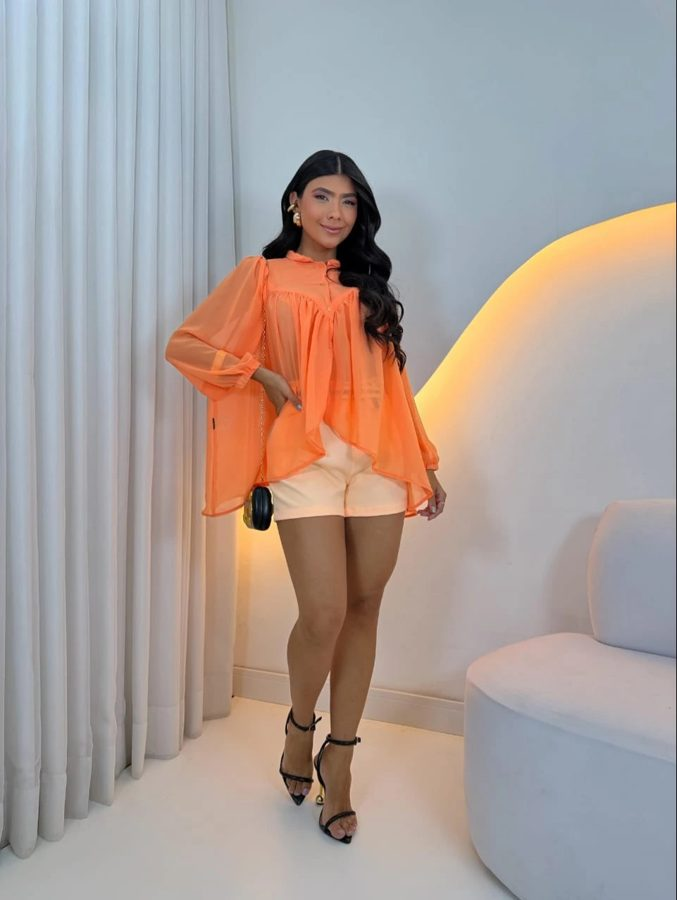
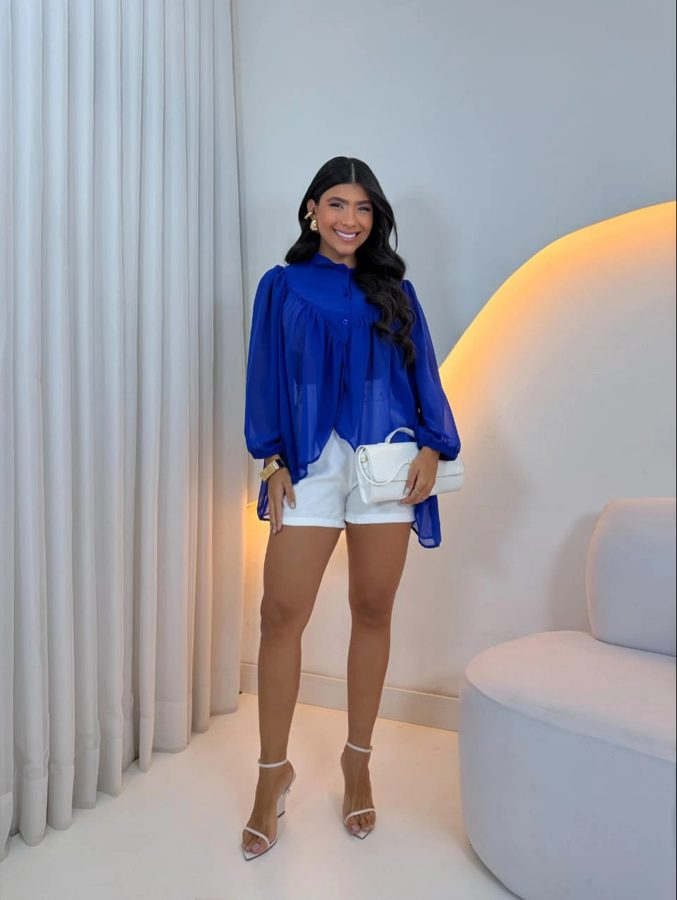
Atualiza catálogo (27/11 07:52)

diff --git a/index.html b/index.html
@@ -172,7 +172,7 @@ header .dica { color: var(--ouro); }
 <section class="promos" aria-label="Promoções"><h2>Descontos exclusivos para compras pelo site</h2><div class="promo"><b>Leve mais, pague menos</b><div class="degraus"><div><strong>-5%</strong><small>2 peças</small></div><div><strong>-8%</strong><small>3 peças</small></div><div><strong>-10%</strong><small>4 peças</small></div><div><strong>-12%</strong><small>5 peças</small></div><div><strong class="txt">ATACADO</strong><small>6+ peças</small></div></div><span>Automático no carrinho · pode misturar modelos, cores e tamanhos</span></div><div class="promo"><b>Pagando no Pix</b><span class="grande">3% <small>OFF</small></span><span>Em todo o site, no checkout · não soma com outros descontos</span></div><div class="promo"><b>Cupom de desconto</b><div class="ticket"><strong>3% OFF na 1ª compra</strong><div class="codigo"><code>PRIMEIRACOMPRA01</code><button type="button" data-copiar="PRIMEIRACOMPRA01">Copiar</button></div><span>Compras a partir de R$ 59,90 · digite no checkout</span></div></div><p class="aviso">Cupom, desconto progressivo e desconto no Pix valem só para compras feitas pelo site michellyscriacoes.com.br</p></section>
 <div class="filtros"><button type="button" data-filtro="todas" aria-pressed="true">Todas as peças</button><button type="button" data-filtro="promo" aria-pressed="false">Em promoção (17)</button></div>
 <main class="grade">
-<a href="https://michellyscriacoes.com.br/camisa-social-feminina-manga-longa-com-abotoamento-elegante?utm_source=catalogo&amp;utm_medium=whatsapp&amp;utm_campaign=catalogo_digital&amp;utm_content=link" target="_blank" rel="noopener"><div class="foto"><img src="fotos/camisa-social-feminina-manga-longa-com-abotoamento-elegante.jpg" alt="Camisa Social Feminina Manga Longa com Abotoamento Elegante" loading="lazy"></div><div class="info"><span class="nome">Camisa Social Feminina Manga Longa com Abotoamento Elegante</span><span class="preco"><small>Varejo</small> R$ 89,90</span><span class="atacado"><small>Atacado</small> R$ 64,90</span><span class="det">Tam: M · G</span><span class="cores"><i title="Branco" aria-label="Branco" style="background:#ffffff"></i><i title="Preto" aria-label="Preto" style="background:#1d1d1d"></i><i title="Rosa" aria-label="Rosa" style="background:#f19bb4"></i><i title="Vermelho" aria-label="Vermelho" style="background:#d12b2b"></i></span><span class="extras"><small>Só comprando pelo site:</small><br>No Pix: <b>R$ 87,20</b><br>Leve 2: <b>R$ 85,41</b> cada · Leve 3: <b>R$ 82,71</b> cada · Leve 4: <b>R$ 80,91</b> cada · Leve 5: <b>R$ 79,11</b> cada</span></div><button class="mais" type="button" aria-label="Ver detalhes">+</button></a>
+<a href="https://michellyscriacoes.com.br/camisa-social-feminina-manga-longa-com-abotoamento-elegante?utm_source=catalogo&amp;utm_medium=whatsapp&amp;utm_campaign=catalogo_digital&amp;utm_content=link" target="_blank" rel="noopener"><div class="foto"><img src="fotos/camisa-social-feminina-manga-longa-com-abotoamento-elegante.jpg" alt="Camisa Social Feminina Manga Longa com Abotoamento Elegante" loading="lazy"></div><div class="info"><span class="nome">Camisa Social Feminina Manga Longa com Abotoamento Elegante</span><span class="preco"><small>Varejo</small> R$ 89,90</span><span class="atacado"><small>Atacado</small> R$ 64,90</span><span class="det">Tam: M · G</span><span class="cores"><i title="Branco" aria-label="Branco" style="background:#ffffff"></i><i title="Preto" aria-label="Preto" style="background:#1d1d1d"></i><i title="Rosa" aria-label="Rosa" style="background:#f19bb4"></i><i title="Telha" aria-label="Telha" style="background:#b9563a"></i><i title="Vermelho" aria-label="Vermelho" style="background:#d12b2b"></i></span><span class="extras"><small>Só comprando pelo site:</small><br>No Pix: <b>R$ 87,20</b><br>Leve 2: <b>R$ 85,41</b> cada · Leve 3: <b>R$ 82,71</b> cada · Leve 4: <b>R$ 80,91</b> cada · Leve 5: <b>R$ 79,11</b> cada</span></div><button class="mais" type="button" aria-label="Ver detalhes">+</button></a>
 <a href="https://michellyscriacoes.com.br/blusa-com-lastek-na-gola-e-cintura-e-mangas?utm_source=catalogo&amp;utm_medium=whatsapp&amp;utm_campaign=catalogo_digital&amp;utm_content=link" target="_blank" rel="noopener"><div class="foto"><img src="fotos/blusa-com-lastek-na-gola-e-cintura-e-mangas.jpg" alt="Blusa com Lastek na gola e cintura e Mangas" loading="lazy"></div><div class="info"><span class="nome">Blusa com Lastek na gola e cintura e Mangas</span><span class="preco"><small>Varejo</small> R$ 89,90</span><span class="atacado"><small>Atacado</small> R$ 59,90</span><span class="det">Tam: G</span><span class="cores"><i title="Branco" aria-label="Branco" style="background:#ffffff"></i><i title="Preto" aria-label="Preto" style="background:#1d1d1d"></i><i title="Rosa" aria-label="Rosa" style="background:#f19bb4"></i><i title="Vermelho" aria-label="Vermelho" style="background:#d12b2b"></i></span><span class="extras"><small>Só comprando pelo site:</small><br>No Pix: <b>R$ 87,20</b><br>Leve 2: <b>R$ 85,41</b> cada · Leve 3: <b>R$ 82,71</b> cada · Leve 4: <b>R$ 80,91</b> cada · Leve 5: <b>R$ 79,11</b> cada</span></div><button class="mais" type="button" aria-label="Ver detalhes">+</button></a>
 <a href="https://michellyscriacoes.com.br/blusa-cropped-esvoacante-com-mangas-estilo-capa-e-costas-abertas?utm_source=catalogo&amp;utm_medium=whatsapp&amp;utm_campaign=catalogo_digital&amp;utm_content=link" target="_blank" rel="noopener"><div class="foto"><img src="fotos/blusa-cropped-esvoacante-com-mangas-estilo-capa-e-costas-abertas.jpg" alt="Blusa Cropped Esvoaçante com Mangas Estilo Capa" loading="lazy"></div><div class="info"><span class="nome">Blusa Cropped Esvoaçante com Mangas Estilo Capa</span><span class="preco"><small>Varejo</small> R$ 79,90</span><span class="atacado"><small>Atacado</small> R$ 54,90</span><span class="det">Tam: M · G</span><span class="cores"><i title="Rosa" aria-label="Rosa" style="background:#f19bb4"></i></span><span class="extras"><small>Só comprando pelo site:</small><br>No Pix: <b>R$ 77,50</b><br>Leve 2: <b>R$ 75,91</b> cada · Leve 3: <b>R$ 73,51</b> cada · Leve 4: <b>R$ 71,91</b> cada · Leve 5: <b>R$ 70,31</b> cada</span></div><button class="mais" type="button" aria-label="Ver detalhes">+</button></a>
 <a href="https://michellyscriacoes.com.br/bata-quadrada?utm_source=catalogo&amp;utm_medium=whatsapp&amp;utm_campaign=catalogo_digital&amp;utm_content=link" target="_blank" rel="noopener" data-promo="1"><div class="foto"><img src="fotos/bata-quadrada.jpg" alt="Bata Quadrada" loading="lazy"></div><span class="selo">-12%<small>OFF</small></span><div class="info"><span class="nome">Bata Quadrada</span><span class="de">de R$ 84,90</span><span class="preco"><small>Varejo</small> R$ 74,90</span><span class="atacado"><small>Atacado</small> R$ 49,90</span><span class="det">Tam: M · G</span><span class="cores"><i title="Branco" aria-label="Branco" style="background:#ffffff"></i><i title="Preto" aria-label="Preto" style="background:#1d1d1d"></i><i title="Rosa" aria-label="Rosa" style="background:#f19bb4"></i><i title="Vermelho" aria-label="Vermelho" style="background:#d12b2b"></i></span><span class="extras"><small>Só comprando pelo site:</small><br>No Pix: <b>R$ 72,65</b><br>Leve 2: <b>R$ 71,16</b> cada · Leve 3: <b>R$ 68,91</b> cada · Leve 4: <b>R$ 67,41</b> cada · Leve 5: <b>R$ 65,91</b> cada</span></div><button class="mais" type="button" aria-label="Ver detalhes">+</button></a>
